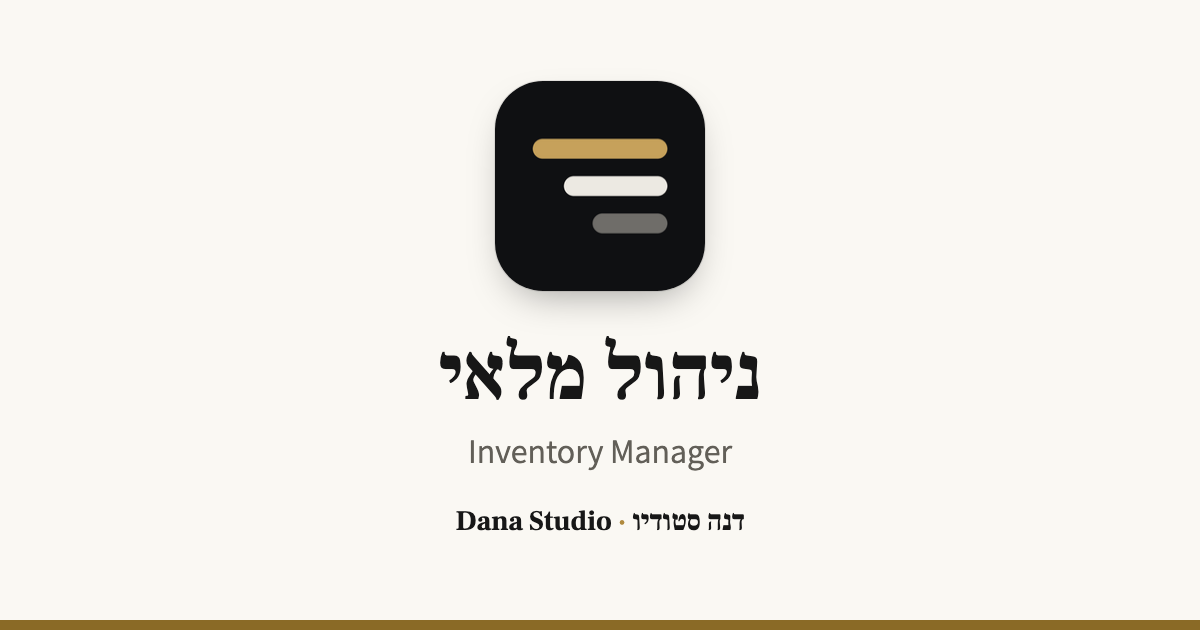
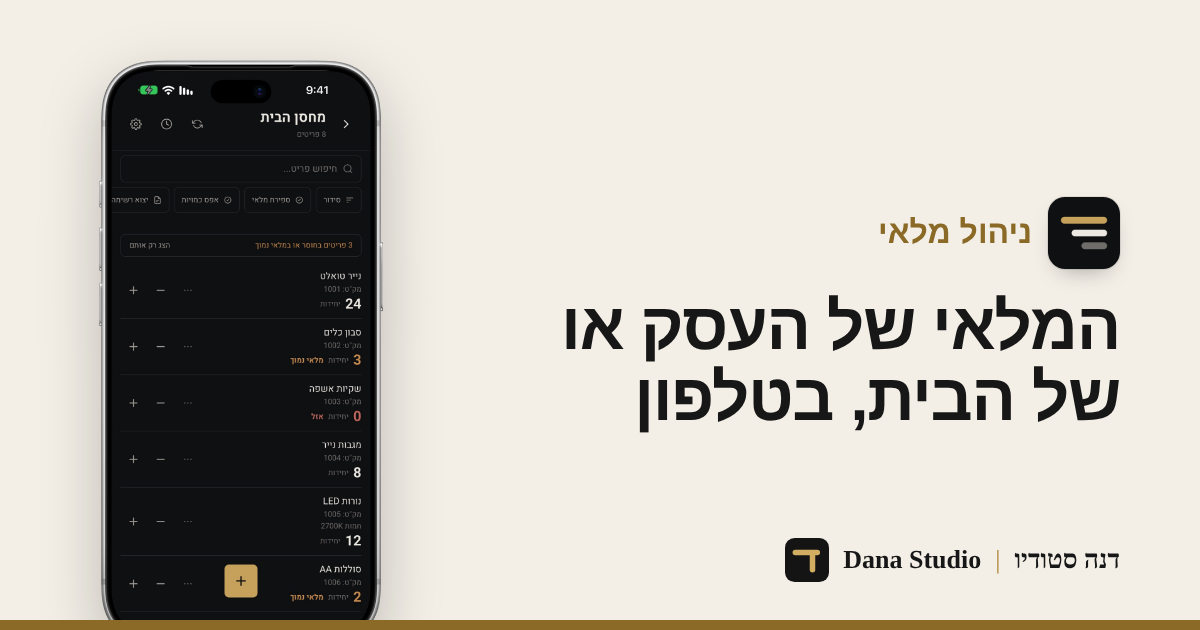
New share images, faster first screenshot, full footer, tighter hero
- Share images redrawn in the new design (Ringo's colon fixed), with ?v=2
  so apps that cached the old ones fetch the new ones
- First home screenshot loads right away (eager, high priority)
- Footer on every page: each app's privacy/support pages, contact and the
  accessibility statement
- Less space between the hero and the first app

Claude-Session: https://claude.ai/code/session_01K9gGiFB1DX32ZsXd2ickuE

diff --git a/index.html b/index.html
@@ -23,7 +23,7 @@
 <meta property="og:title" content="Dana Studio | דנה סטודיו">
 <meta property="og:description" content="אפליקציות בעברית לאייפון ולאנדרואיד: ניהול מלאי, מילים ו-Ringo.">
 <meta property="og:url" content="https://danastudio.app/">
-<meta property="og:image" content="https://danastudio.app/assets/share/home.png">
+<meta property="og:image" content="https://danastudio.app/assets/share/home.png?v=2">
 <meta property="og:image:width" content="1200">
 <meta property="og:image:height" content="630">
 <meta property="og:image:alt" content="Dana Studio | דנה סטודיו">
@@ -96,7 +96,7 @@
       </div>
       <div class="shots-box">
         <div class="shots"><div class="shots-screen">
-          <img src="inventory/screens/1.jpg" srcset="inventory/screens/1.jpg 414w, inventory/screens/1-large.jpg 828w" sizes="206px" data-alt-en="The items in a stockroom, with quantities" data-full="inventory/screens/1-large.jpg" alt="רשימת הפריטים במחסן, עם הכמויות" width="414" height="900" loading="lazy" decoding="async">
+          <img src="inventory/screens/1.jpg" srcset="inventory/screens/1.jpg 414w, inventory/screens/1-large.jpg 828w" sizes="206px" data-alt-en="The items in a stockroom, with quantities" data-full="inventory/screens/1-large.jpg" alt="רשימת הפריטים במחסן, עם הכמויות" width="414" height="900" loading="eager" fetchpriority="high" decoding="async">
           <img src="inventory/screens/2.jpg" srcset="inventory/screens/2.jpg 414w, inventory/screens/2-large.jpg 828w" sizes="206px" data-alt-en="The list of stockrooms" data-full="inventory/screens/2-large.jpg" alt="רשימת המחסנים" width="414" height="900" loading="lazy" decoding="async">
           <img src="inventory/screens/3.jpg" srcset="inventory/screens/3.jpg 414w, inventory/screens/3-large.jpg 828w" sizes="206px" data-alt-en="Adding stock to an item" data-full="inventory/screens/3-large.jpg" alt="הוספת כמות לפריט" width="414" height="900" loading="lazy" decoding="async">
           <img src="inventory/screens/4.jpg" srcset="inventory/screens/4.jpg 414w, inventory/screens/4-large.jpg 828w" sizes="206px" data-alt-en="Stockroom settings and sharing" data-full="inventory/screens/4-large.jpg" alt="הגדרות מחסן ושיתוף" width="414" height="900" loading="lazy" decoding="async">
@@ -184,9 +184,13 @@
   </main>
 
   <footer>
-    <p><span data-l="he">שאלות ותמיכה:</span><span data-l="en" lang="en">Questions and support:</span> <a href="mailto:danastudio.apps@gmail.com" class="ltr">danastudio.apps@gmail.com</a></p>
-    <p><a href="accessibility.html"><span data-l="he">הצהרת נגישות</span><span data-l="en" lang="en">Accessibility statement</span></a></p>
-    <p dir="ltr">© 2026 Yosef Dana</p>
+    <nav class="foot-nav" aria-label="קישורים באתר" data-aria-en="Site links">
+      <div><a class="foot-app" href="/#inventory"><span data-l="he">ניהול מלאי</span><span data-l="en" lang="en">Inventory Manager</span></a><a href="/inventory/privacy.html"><span data-l="he">מדיניות פרטיות</span><span data-l="en" lang="en">Privacy policy</span></a><a href="/inventory/support.html"><span data-l="he">תמיכה</span><span data-l="en" lang="en">Support</span></a><a href="/inventory/delete-account.html"><span data-l="he">מחיקת חשבון</span><span data-l="en" lang="en">Delete account</span></a></div>
+      <div><a class="foot-app" href="/#milim"><span data-l="he">מילים</span><span data-l="en" lang="en">Milim</span></a><a href="/milim/privacy.html"><span data-l="he">מדיניות פרטיות</span><span data-l="en" lang="en">Privacy policy</span></a><a href="/milim/support.html"><span data-l="he">תמיכה</span><span data-l="en" lang="en">Support</span></a></div>
+      <div><a class="foot-app" href="/#ringo">Ringo</a><a href="/ringo/privacy.html"><span data-l="he">מדיניות פרטיות</span><span data-l="en" lang="en">Privacy policy</span></a><a href="/ringo/support.html"><span data-l="he">תמיכה</span><span data-l="en" lang="en">Support</span></a></div>
+      <div><span class="foot-app">Dana Studio</span><a href="mailto:danastudio.apps@gmail.com"><span data-l="he">צרו קשר</span><span data-l="en" lang="en">Contact us</span></a><a href="/accessibility.html"><span data-l="he">הצהרת נגישות</span><span data-l="en" lang="en">Accessibility statement</span></a></div>
+    </nav>
+    <p class="foot-copy" dir="ltr">© 2026 Yosef Dana</p>
   </footer>
 
 </div>

diff --git a/assets/site.css b/assets/site.css
@@ -170,7 +170,7 @@ a { color: var(--ink); text-decoration-color: color-mix(in srgb, var(--accent) 4
 .sr { position: absolute; width: 1px; height: 1px; overflow: hidden; clip-path: inset(50%); white-space: nowrap; }
 
 /* ===== Home: header ===== */
-.home-head { text-align: center; margin: 36px 0 56px; }
+.home-head { text-align: center; margin: 32px 0 24px; }
 .brand {
   font-size: clamp(30px, 8.4vw, 72px);
   line-height: 1.1;
@@ -207,6 +207,7 @@ a { color: var(--ink); text-decoration-color: color-mix(in srgb, var(--accent) 4
   background: var(--band);
   display: grid; gap: 40px; justify-items: center;
 }
+.app:first-child { padding-top: 40px; }
 .app:nth-child(even) { --band: color-mix(in srgb, var(--accent) 5%, var(--soft)); }
 .app-text { width: 100%; max-width: 520px; }
 .app-head { display: flex; align-items: center; gap: 12px; margin-bottom: 14px; }
@@ -441,10 +442,15 @@ details ul { color: var(--muted); }
 }
 .not-found .store { width: auto; display: inline-flex; padding: 6px 22px; }
 
-/* ===== Footer ===== */
-footer { text-align: center; margin-top: 44px; color: var(--muted); font-size: 15px; }
-footer p { margin: 6px 0; }
-footer a { color: var(--muted); }
+/* ===== Footer: every app's pages, contact and accessibility, on every page ===== */
+footer { margin-top: 56px; padding-top: 32px; border-top: 1px solid var(--line); color: var(--muted); font-size: 14px; }
+.foot-nav { display: grid; grid-template-columns: repeat(2, minmax(0, 1fr)); gap: 28px 20px; }
+.foot-nav div { display: grid; gap: 8px; align-content: start; }
+.foot-nav a { color: var(--muted); text-decoration: none; transition: color .2s var(--ease); }
+.foot-nav a:hover { color: var(--ink); text-decoration: underline; }
+.foot-nav .foot-app { color: var(--ink); font-weight: 700; font-size: 15px; }
+.foot-copy { margin: 32px 0 0; font-size: 13px; }
+:root[dir="rtl"] .foot-copy { text-align: right; }
 
 /* ===== Wide screens (computer, landscape tablet) ===== */
 @media (min-width: 900px) {
@@ -455,12 +461,13 @@ footer a { color: var(--muted); }
   .app-nav a:hover { color: var(--ink); }
 
   /* Home: text and phone side by side; the phone switches sides from band to band */
-  .home-head { margin: 56px 0 88px; }
+  .home-head { margin: 40px 0 16px; }
   .apps { margin: 0 calc(50% - 50vw); }
   .app {
     padding: 104px max(40px, calc(50vw - 560px));
     grid-template-columns: minmax(0, 1fr) auto; align-items: center; gap: 72px;
   }
+  .app:first-child { padding-top: 56px; }
   .app:nth-child(even) .shots-box { order: -1; }
   .app-text { max-width: 560px; justify-self: start; }
   .app:nth-child(even) .app-text { justify-self: end; }
@@ -480,7 +487,8 @@ footer a { color: var(--muted); }
   .page-side .page-nav a[aria-current="page"] { border-inline-start-color: var(--accent); }
   .page-body > :first-child { margin-top: 0; }
   .page-body > h2:first-child { margin-top: 0; }
-  footer { margin-top: 72px; }
+  footer { margin-top: 80px; }
+  .foot-nav { grid-template-columns: repeat(4, minmax(0, 1fr)); }
 }
 
 ::selection { background: color-mix(in srgb, var(--accent) 25%, transparent); color: var(--ink); }

diff --git a/inventory/delete-account.html b/inventory/delete-account.html
@@ -13,7 +13,7 @@
 <meta property="og:description" content="מחיקת חשבון ונתונים באפליקציית ניהול מלאי מבית Dana Studio.">
 <link rel="canonical" href="https://danastudio.app/inventory/delete-account.html">
 <meta property="og:url" content="https://danastudio.app/inventory/delete-account.html">
-<meta property="og:image" content="https://danastudio.app/assets/share/inventory.png">
+<meta property="og:image" content="https://danastudio.app/assets/share/inventory.png?v=2">
 <meta property="og:image:width" content="1200">
 <meta property="og:image:height" content="630">
 <meta property="og:image:alt" content="ניהול מלאי">
@@ -106,8 +106,13 @@
   </main>
 
   <footer>
-    <p><a href="../accessibility.html"><span data-l="he">הצהרת נגישות</span><span data-l="en" lang="en">Accessibility statement</span></a></p>
-    <p dir="ltr">© 2026 Yosef Dana</p>
+    <nav class="foot-nav" aria-label="קישורים באתר" data-aria-en="Site links">
+      <div><a class="foot-app" href="/#inventory"><span data-l="he">ניהול מלאי</span><span data-l="en" lang="en">Inventory Manager</span></a><a href="/inventory/privacy.html"><span data-l="he">מדיניות פרטיות</span><span data-l="en" lang="en">Privacy policy</span></a><a href="/inventory/support.html"><span data-l="he">תמיכה</span><span data-l="en" lang="en">Support</span></a><a href="/inventory/delete-account.html"><span data-l="he">מחיקת חשבון</span><span data-l="en" lang="en">Delete account</span></a></div>
+      <div><a class="foot-app" href="/#milim"><span data-l="he">מילים</span><span data-l="en" lang="en">Milim</span></a><a href="/milim/privacy.html"><span data-l="he">מדיניות פרטיות</span><span data-l="en" lang="en">Privacy policy</span></a><a href="/milim/support.html"><span data-l="he">תמיכה</span><span data-l="en" lang="en">Support</span></a></div>
+      <div><a class="foot-app" href="/#ringo">Ringo</a><a href="/ringo/privacy.html"><span data-l="he">מדיניות פרטיות</span><span data-l="en" lang="en">Privacy policy</span></a><a href="/ringo/support.html"><span data-l="he">תמיכה</span><span data-l="en" lang="en">Support</span></a></div>
+      <div><span class="foot-app">Dana Studio</span><a href="mailto:danastudio.apps@gmail.com"><span data-l="he">צרו קשר</span><span data-l="en" lang="en">Contact us</span></a><a href="/accessibility.html"><span data-l="he">הצהרת נגישות</span><span data-l="en" lang="en">Accessibility statement</span></a></div>
+    </nav>
+    <p class="foot-copy" dir="ltr">© 2026 Yosef Dana</p>
   </footer>
 
 </div>

diff --git a/ringo/privacy.html b/ringo/privacy.html
@@ -13,7 +13,7 @@
 <meta property="og:description" content="מדיניות הפרטיות של Ringo: יוצר צלצולים. האפליקציה לא אוספת שום מידע.">
 <link rel="canonical" href="https://danastudio.app/ringo/privacy.html">
 <meta property="og:url" content="https://danastudio.app/ringo/privacy.html">
-<meta property="og:image" content="https://danastudio.app/assets/share/ringo.png">
+<meta property="og:image" content="https://danastudio.app/assets/share/ringo.png?v=2">
 <meta property="og:image:width" content="1200">
 <meta property="og:image:height" content="630">
 <meta property="og:image:alt" content="Ringo: יוצר צלצולים">
@@ -164,8 +164,13 @@
   </main>
 
   <footer>
-    <p><a href="../accessibility.html"><span data-l="he">הצהרת נגישות</span><span data-l="en" lang="en">Accessibility statement</span></a></p>
-    <p dir="ltr">© 2026 Yosef Dana</p>
+    <nav class="foot-nav" aria-label="קישורים באתר" data-aria-en="Site links">
+      <div><a class="foot-app" href="/#inventory"><span data-l="he">ניהול מלאי</span><span data-l="en" lang="en">Inventory Manager</span></a><a href="/inventory/privacy.html"><span data-l="he">מדיניות פרטיות</span><span data-l="en" lang="en">Privacy policy</span></a><a href="/inventory/support.html"><span data-l="he">תמיכה</span><span data-l="en" lang="en">Support</span></a><a href="/inventory/delete-account.html"><span data-l="he">מחיקת חשבון</span><span data-l="en" lang="en">Delete account</span></a></div>
+      <div><a class="foot-app" href="/#milim"><span data-l="he">מילים</span><span data-l="en" lang="en">Milim</span></a><a href="/milim/privacy.html"><span data-l="he">מדיניות פרטיות</span><span data-l="en" lang="en">Privacy policy</span></a><a href="/milim/support.html"><span data-l="he">תמיכה</span><span data-l="en" lang="en">Support</span></a></div>
+      <div><a class="foot-app" href="/#ringo">Ringo</a><a href="/ringo/privacy.html"><span data-l="he">מדיניות פרטיות</span><span data-l="en" lang="en">Privacy policy</span></a><a href="/ringo/support.html"><span data-l="he">תמיכה</span><span data-l="en" lang="en">Support</span></a></div>
+      <div><span class="foot-app">Dana Studio</span><a href="mailto:danastudio.apps@gmail.com"><span data-l="he">צרו קשר</span><span data-l="en" lang="en">Contact us</span></a><a href="/accessibility.html"><span data-l="he">הצהרת נגישות</span><span data-l="en" lang="en">Accessibility statement</span></a></div>
+    </nav>
+    <p class="foot-copy" dir="ltr">© 2026 Yosef Dana</p>
   </footer>
 
 </div>

diff --git a/inventory/support.html b/inventory/support.html
@@ -14,7 +14,7 @@
 <meta property="og:description" content="תמיכה ושאלות נפוצות על ניהול מלאי מבית Dana Studio.">
 <link rel="canonical" href="https://danastudio.app/inventory/support.html">
 <meta property="og:url" content="https://danastudio.app/inventory/support.html">
-<meta property="og:image" content="https://danastudio.app/assets/share/inventory.png">
+<meta property="og:image" content="https://danastudio.app/assets/share/inventory.png?v=2">
 <meta property="og:image:width" content="1200">
 <meta property="og:image:height" content="630">
 <meta property="og:image:alt" content="ניהול מלאי">
@@ -165,8 +165,13 @@
   </main>
 
   <footer>
-    <p><a href="../accessibility.html"><span data-l="he">הצהרת נגישות</span><span data-l="en" lang="en">Accessibility statement</span></a></p>
-    <p dir="ltr">© 2026 Yosef Dana</p>
+    <nav class="foot-nav" aria-label="קישורים באתר" data-aria-en="Site links">
+      <div><a class="foot-app" href="/#inventory"><span data-l="he">ניהול מלאי</span><span data-l="en" lang="en">Inventory Manager</span></a><a href="/inventory/privacy.html"><span data-l="he">מדיניות פרטיות</span><span data-l="en" lang="en">Privacy policy</span></a><a href="/inventory/support.html"><span data-l="he">תמיכה</span><span data-l="en" lang="en">Support</span></a><a href="/inventory/delete-account.html"><span data-l="he">מחיקת חשבון</span><span data-l="en" lang="en">Delete account</span></a></div>
+      <div><a class="foot-app" href="/#milim"><span data-l="he">מילים</span><span data-l="en" lang="en">Milim</span></a><a href="/milim/privacy.html"><span data-l="he">מדיניות פרטיות</span><span data-l="en" lang="en">Privacy policy</span></a><a href="/milim/support.html"><span data-l="he">תמיכה</span><span data-l="en" lang="en">Support</span></a></div>
+      <div><a class="foot-app" href="/#ringo">Ringo</a><a href="/ringo/privacy.html"><span data-l="he">מדיניות פרטיות</span><span data-l="en" lang="en">Privacy policy</span></a><a href="/ringo/support.html"><span data-l="he">תמיכה</span><span data-l="en" lang="en">Support</span></a></div>
+      <div><span class="foot-app">Dana Studio</span><a href="mailto:danastudio.apps@gmail.com"><span data-l="he">צרו קשר</span><span data-l="en" lang="en">Contact us</span></a><a href="/accessibility.html"><span data-l="he">הצהרת נגישות</span><span data-l="en" lang="en">Accessibility statement</span></a></div>
+    </nav>
+    <p class="foot-copy" dir="ltr">© 2026 Yosef Dana</p>
   </footer>
 
 </div>

diff --git a/inventory/privacy.html b/inventory/privacy.html
@@ -14,7 +14,7 @@
 <meta property="og:description" content="מדיניות הפרטיות של ניהול מלאי מבית Dana Studio.">
 <link rel="canonical" href="https://danastudio.app/inventory/privacy.html">
 <meta property="og:url" content="https://danastudio.app/inventory/privacy.html">
-<meta property="og:image" content="https://danastudio.app/assets/share/inventory.png">
+<meta property="og:image" content="https://danastudio.app/assets/share/inventory.png?v=2">
 <meta property="og:image:width" content="1200">
 <meta property="og:image:height" content="630">
 <meta property="og:image:alt" content="ניהול מלאי">
@@ -163,8 +163,13 @@
   </main>
 
   <footer>
-    <p><a href="../accessibility.html"><span data-l="he">הצהרת נגישות</span><span data-l="en" lang="en">Accessibility statement</span></a></p>
-    <p dir="ltr">© 2026 Yosef Dana</p>
+    <nav class="foot-nav" aria-label="קישורים באתר" data-aria-en="Site links">
+      <div><a class="foot-app" href="/#inventory"><span data-l="he">ניהול מלאי</span><span data-l="en" lang="en">Inventory Manager</span></a><a href="/inventory/privacy.html"><span data-l="he">מדיניות פרטיות</span><span data-l="en" lang="en">Privacy policy</span></a><a href="/inventory/support.html"><span data-l="he">תמיכה</span><span data-l="en" lang="en">Support</span></a><a href="/inventory/delete-account.html"><span data-l="he">מחיקת חשבון</span><span data-l="en" lang="en">Delete account</span></a></div>
+      <div><a class="foot-app" href="/#milim"><span data-l="he">מילים</span><span data-l="en" lang="en">Milim</span></a><a href="/milim/privacy.html"><span data-l="he">מדיניות פרטיות</span><span data-l="en" lang="en">Privacy policy</span></a><a href="/milim/support.html"><span data-l="he">תמיכה</span><span data-l="en" lang="en">Support</span></a></div>
+      <div><a class="foot-app" href="/#ringo">Ringo</a><a href="/ringo/privacy.html"><span data-l="he">מדיניות פרטיות</span><span data-l="en" lang="en">Privacy policy</span></a><a href="/ringo/support.html"><span data-l="he">תמיכה</span><span data-l="en" lang="en">Support</span></a></div>
+      <div><span class="foot-app">Dana Studio</span><a href="mailto:danastudio.apps@gmail.com"><span data-l="he">צרו קשר</span><span data-l="en" lang="en">Contact us</span></a><a href="/accessibility.html"><span data-l="he">הצהרת נגישות</span><span data-l="en" lang="en">Accessibility statement</span></a></div>
+    </nav>
+    <p class="foot-copy" dir="ltr">© 2026 Yosef Dana</p>
   </footer>
 
 </div>

diff --git a/milim/support.html b/milim/support.html
@@ -14,7 +14,7 @@
 <meta property="og:description" content="תמיכה ושאלות נפוצות לאפליקציית מילים (Milim) מבית Dana Studio.">
 <link rel="canonical" href="https://danastudio.app/milim/support.html">
 <meta property="og:url" content="https://danastudio.app/milim/support.html">
-<meta property="og:image" content="https://danastudio.app/assets/share/milim.png">
+<meta property="og:image" content="https://danastudio.app/assets/share/milim.png?v=2">
 <meta property="og:image:width" content="1200">
 <meta property="og:image:height" content="630">
 <meta property="og:image:alt" content="מילים">
@@ -195,8 +195,13 @@
   </main>
 
   <footer>
-    <p><a href="../accessibility.html"><span data-l="he">הצהרת נגישות</span><span data-l="en" lang="en">Accessibility statement</span></a></p>
-    <p dir="ltr">© 2026 Yosef Dana</p>
+    <nav class="foot-nav" aria-label="קישורים באתר" data-aria-en="Site links">
+      <div><a class="foot-app" href="/#inventory"><span data-l="he">ניהול מלאי</span><span data-l="en" lang="en">Inventory Manager</span></a><a href="/inventory/privacy.html"><span data-l="he">מדיניות פרטיות</span><span data-l="en" lang="en">Privacy policy</span></a><a href="/inventory/support.html"><span data-l="he">תמיכה</span><span data-l="en" lang="en">Support</span></a><a href="/inventory/delete-account.html"><span data-l="he">מחיקת חשבון</span><span data-l="en" lang="en">Delete account</span></a></div>
+      <div><a class="foot-app" href="/#milim"><span data-l="he">מילים</span><span data-l="en" lang="en">Milim</span></a><a href="/milim/privacy.html"><span data-l="he">מדיניות פרטיות</span><span data-l="en" lang="en">Privacy policy</span></a><a href="/milim/support.html"><span data-l="he">תמיכה</span><span data-l="en" lang="en">Support</span></a></div>
+      <div><a class="foot-app" href="/#ringo">Ringo</a><a href="/ringo/privacy.html"><span data-l="he">מדיניות פרטיות</span><span data-l="en" lang="en">Privacy policy</span></a><a href="/ringo/support.html"><span data-l="he">תמיכה</span><span data-l="en" lang="en">Support</span></a></div>
+      <div><span class="foot-app">Dana Studio</span><a href="mailto:danastudio.apps@gmail.com"><span data-l="he">צרו קשר</span><span data-l="en" lang="en">Contact us</span></a><a href="/accessibility.html"><span data-l="he">הצהרת נגישות</span><span data-l="en" lang="en">Accessibility statement</span></a></div>
+    </nav>
+    <p class="foot-copy" dir="ltr">© 2026 Yosef Dana</p>
   </footer>
 
 </div>

diff --git a/milim/privacy.html b/milim/privacy.html
@@ -14,7 +14,7 @@
 <meta property="og:description" content="מדיניות הפרטיות של אפליקציית מילים (Milim) מבית Dana Studio.">
 <link rel="canonical" href="https://danastudio.app/milim/privacy.html">
 <meta property="og:url" content="https://danastudio.app/milim/privacy.html">
-<meta property="og:image" content="https://danastudio.app/assets/share/milim.png">
+<meta property="og:image" content="https://danastudio.app/assets/share/milim.png?v=2">
 <meta property="og:image:width" content="1200">
 <meta property="og:image:height" content="630">
 <meta property="og:image:alt" content="מילים">
@@ -181,8 +181,13 @@
   </main>
 
   <footer>
-    <p><a href="../accessibility.html"><span data-l="he">הצהרת נגישות</span><span data-l="en" lang="en">Accessibility statement</span></a></p>
-    <p dir="ltr">© 2026 Yosef Dana</p>
+    <nav class="foot-nav" aria-label="קישורים באתר" data-aria-en="Site links">
+      <div><a class="foot-app" href="/#inventory"><span data-l="he">ניהול מלאי</span><span data-l="en" lang="en">Inventory Manager</span></a><a href="/inventory/privacy.html"><span data-l="he">מדיניות פרטיות</span><span data-l="en" lang="en">Privacy policy</span></a><a href="/inventory/support.html"><span data-l="he">תמיכה</span><span data-l="en" lang="en">Support</span></a><a href="/inventory/delete-account.html"><span data-l="he">מחיקת חשבון</span><span data-l="en" lang="en">Delete account</span></a></div>
+      <div><a class="foot-app" href="/#milim"><span data-l="he">מילים</span><span data-l="en" lang="en">Milim</span></a><a href="/milim/privacy.html"><span data-l="he">מדיניות פרטיות</span><span data-l="en" lang="en">Privacy policy</span></a><a href="/milim/support.html"><span data-l="he">תמיכה</span><span data-l="en" lang="en">Support</span></a></div>
+      <div><a class="foot-app" href="/#ringo">Ringo</a><a href="/ringo/privacy.html"><span data-l="he">מדיניות פרטיות</span><span data-l="en" lang="en">Privacy policy</span></a><a href="/ringo/support.html"><span data-l="he">תמיכה</span><span data-l="en" lang="en">Support</span></a></div>
+      <div><span class="foot-app">Dana Studio</span><a href="mailto:danastudio.apps@gmail.com"><span data-l="he">צרו קשר</span><span data-l="en" lang="en">Contact us</span></a><a href="/accessibility.html"><span data-l="he">הצהרת נגישות</span><span data-l="en" lang="en">Accessibility statement</span></a></div>
+    </nav>
+    <p class="foot-copy" dir="ltr">© 2026 Yosef Dana</p>
   </footer>
 
 </div>

diff --git a/ringo/support.html b/ringo/support.html
@@ -13,7 +13,7 @@
 <meta property="og:description" content="תמיכה ושאלות נפוצות ל-Ringo: יוצר צלצולים.">
 <link rel="canonical" href="https://danastudio.app/ringo/support.html">
 <meta property="og:url" content="https://danastudio.app/ringo/support.html">
-<meta property="og:image" content="https://danastudio.app/assets/share/ringo.png">
+<meta property="og:image" content="https://danastudio.app/assets/share/ringo.png?v=2">
 <meta property="og:image:width" content="1200">
 <meta property="og:image:height" content="630">
 <meta property="og:image:alt" content="Ringo: יוצר צלצולים">
@@ -180,8 +180,13 @@
   </main>
 
   <footer>
-    <p><a href="../accessibility.html"><span data-l="he">הצהרת נגישות</span><span data-l="en" lang="en">Accessibility statement</span></a></p>
-    <p dir="ltr">© 2026 Yosef Dana</p>
+    <nav class="foot-nav" aria-label="קישורים באתר" data-aria-en="Site links">
+      <div><a class="foot-app" href="/#inventory"><span data-l="he">ניהול מלאי</span><span data-l="en" lang="en">Inventory Manager</span></a><a href="/inventory/privacy.html"><span data-l="he">מדיניות פרטיות</span><span data-l="en" lang="en">Privacy policy</span></a><a href="/inventory/support.html"><span data-l="he">תמיכה</span><span data-l="en" lang="en">Support</span></a><a href="/inventory/delete-account.html"><span data-l="he">מחיקת חשבון</span><span data-l="en" lang="en">Delete account</span></a></div>
+      <div><a class="foot-app" href="/#milim"><span data-l="he">מילים</span><span data-l="en" lang="en">Milim</span></a><a href="/milim/privacy.html"><span data-l="he">מדיניות פרטיות</span><span data-l="en" lang="en">Privacy policy</span></a><a href="/milim/support.html"><span data-l="he">תמיכה</span><span data-l="en" lang="en">Support</span></a></div>
+      <div><a class="foot-app" href="/#ringo">Ringo</a><a href="/ringo/privacy.html"><span data-l="he">מדיניות פרטיות</span><span data-l="en" lang="en">Privacy policy</span></a><a href="/ringo/support.html"><span data-l="he">תמיכה</span><span data-l="en" lang="en">Support</span></a></div>
+      <div><span class="foot-app">Dana Studio</span><a href="mailto:danastudio.apps@gmail.com"><span data-l="he">צרו קשר</span><span data-l="en" lang="en">Contact us</span></a><a href="/accessibility.html"><span data-l="he">הצהרת נגישות</span><span data-l="en" lang="en">Accessibility statement</span></a></div>
+    </nav>
+    <p class="foot-copy" dir="ltr">© 2026 Yosef Dana</p>
   </footer>
 
 </div>

diff --git a/accessibility.html b/accessibility.html
@@ -12,7 +12,7 @@
 <meta property="og:description" content="הצהרת הנגישות של האתר Dana Studio.">
 <link rel="canonical" href="https://danastudio.app/accessibility.html">
 <meta property="og:url" content="https://danastudio.app/accessibility.html">
-<meta property="og:image" content="https://danastudio.app/assets/share/home.png">
+<meta property="og:image" content="https://danastudio.app/assets/share/home.png?v=2">
 <meta property="og:image:width" content="1200">
 <meta property="og:image:height" content="630">
 <meta property="og:image:alt" content="Dana Studio">
@@ -115,7 +115,13 @@
   </main>
 
   <footer>
-    <p dir="ltr">© 2026 Yosef Dana</p>
+    <nav class="foot-nav" aria-label="קישורים באתר" data-aria-en="Site links">
+      <div><a class="foot-app" href="/#inventory"><span data-l="he">ניהול מלאי</span><span data-l="en" lang="en">Inventory Manager</span></a><a href="/inventory/privacy.html"><span data-l="he">מדיניות פרטיות</span><span data-l="en" lang="en">Privacy policy</span></a><a href="/inventory/support.html"><span data-l="he">תמיכה</span><span data-l="en" lang="en">Support</span></a><a href="/inventory/delete-account.html"><span data-l="he">מחיקת חשבון</span><span data-l="en" lang="en">Delete account</span></a></div>
+      <div><a class="foot-app" href="/#milim"><span data-l="he">מילים</span><span data-l="en" lang="en">Milim</span></a><a href="/milim/privacy.html"><span data-l="he">מדיניות פרטיות</span><span data-l="en" lang="en">Privacy policy</span></a><a href="/milim/support.html"><span data-l="he">תמיכה</span><span data-l="en" lang="en">Support</span></a></div>
+      <div><a class="foot-app" href="/#ringo">Ringo</a><a href="/ringo/privacy.html"><span data-l="he">מדיניות פרטיות</span><span data-l="en" lang="en">Privacy policy</span></a><a href="/ringo/support.html"><span data-l="he">תמיכה</span><span data-l="en" lang="en">Support</span></a></div>
+      <div><span class="foot-app">Dana Studio</span><a href="mailto:danastudio.apps@gmail.com"><span data-l="he">צרו קשר</span><span data-l="en" lang="en">Contact us</span></a><a href="/accessibility.html"><span data-l="he">הצהרת נגישות</span><span data-l="en" lang="en">Accessibility statement</span></a></div>
+    </nav>
+    <p class="foot-copy" dir="ltr">© 2026 Yosef Dana</p>
   </footer>
 
 </div>

diff --git a/404.html b/404.html
@@ -44,8 +44,13 @@
   </main>
 
   <footer>
-    <p><span data-l="he">שאלות ותמיכה:</span><span data-l="en" lang="en">Questions and support:</span> <a href="mailto:danastudio.apps@gmail.com" class="ltr">danastudio.apps@gmail.com</a></p>
-    <p dir="ltr">© 2026 Yosef Dana</p>
+    <nav class="foot-nav" aria-label="קישורים באתר" data-aria-en="Site links">
+      <div><a class="foot-app" href="/#inventory"><span data-l="he">ניהול מלאי</span><span data-l="en" lang="en">Inventory Manager</span></a><a href="/inventory/privacy.html"><span data-l="he">מדיניות פרטיות</span><span data-l="en" lang="en">Privacy policy</span></a><a href="/inventory/support.html"><span data-l="he">תמיכה</span><span data-l="en" lang="en">Support</span></a><a href="/inventory/delete-account.html"><span data-l="he">מחיקת חשבון</span><span data-l="en" lang="en">Delete account</span></a></div>
+      <div><a class="foot-app" href="/#milim"><span data-l="he">מילים</span><span data-l="en" lang="en">Milim</span></a><a href="/milim/privacy.html"><span data-l="he">מדיניות פרטיות</span><span data-l="en" lang="en">Privacy policy</span></a><a href="/milim/support.html"><span data-l="he">תמיכה</span><span data-l="en" lang="en">Support</span></a></div>
+      <div><a class="foot-app" href="/#ringo">Ringo</a><a href="/ringo/privacy.html"><span data-l="he">מדיניות פרטיות</span><span data-l="en" lang="en">Privacy policy</span></a><a href="/ringo/support.html"><span data-l="he">תמיכה</span><span data-l="en" lang="en">Support</span></a></div>
+      <div><span class="foot-app">Dana Studio</span><a href="mailto:danastudio.apps@gmail.com"><span data-l="he">צרו קשר</span><span data-l="en" lang="en">Contact us</span></a><a href="/accessibility.html"><span data-l="he">הצהרת נגישות</span><span data-l="en" lang="en">Accessibility statement</span></a></div>
+    </nav>
+    <p class="foot-copy" dir="ltr">© 2026 Yosef Dana</p>
   </footer>
 
 </div>
